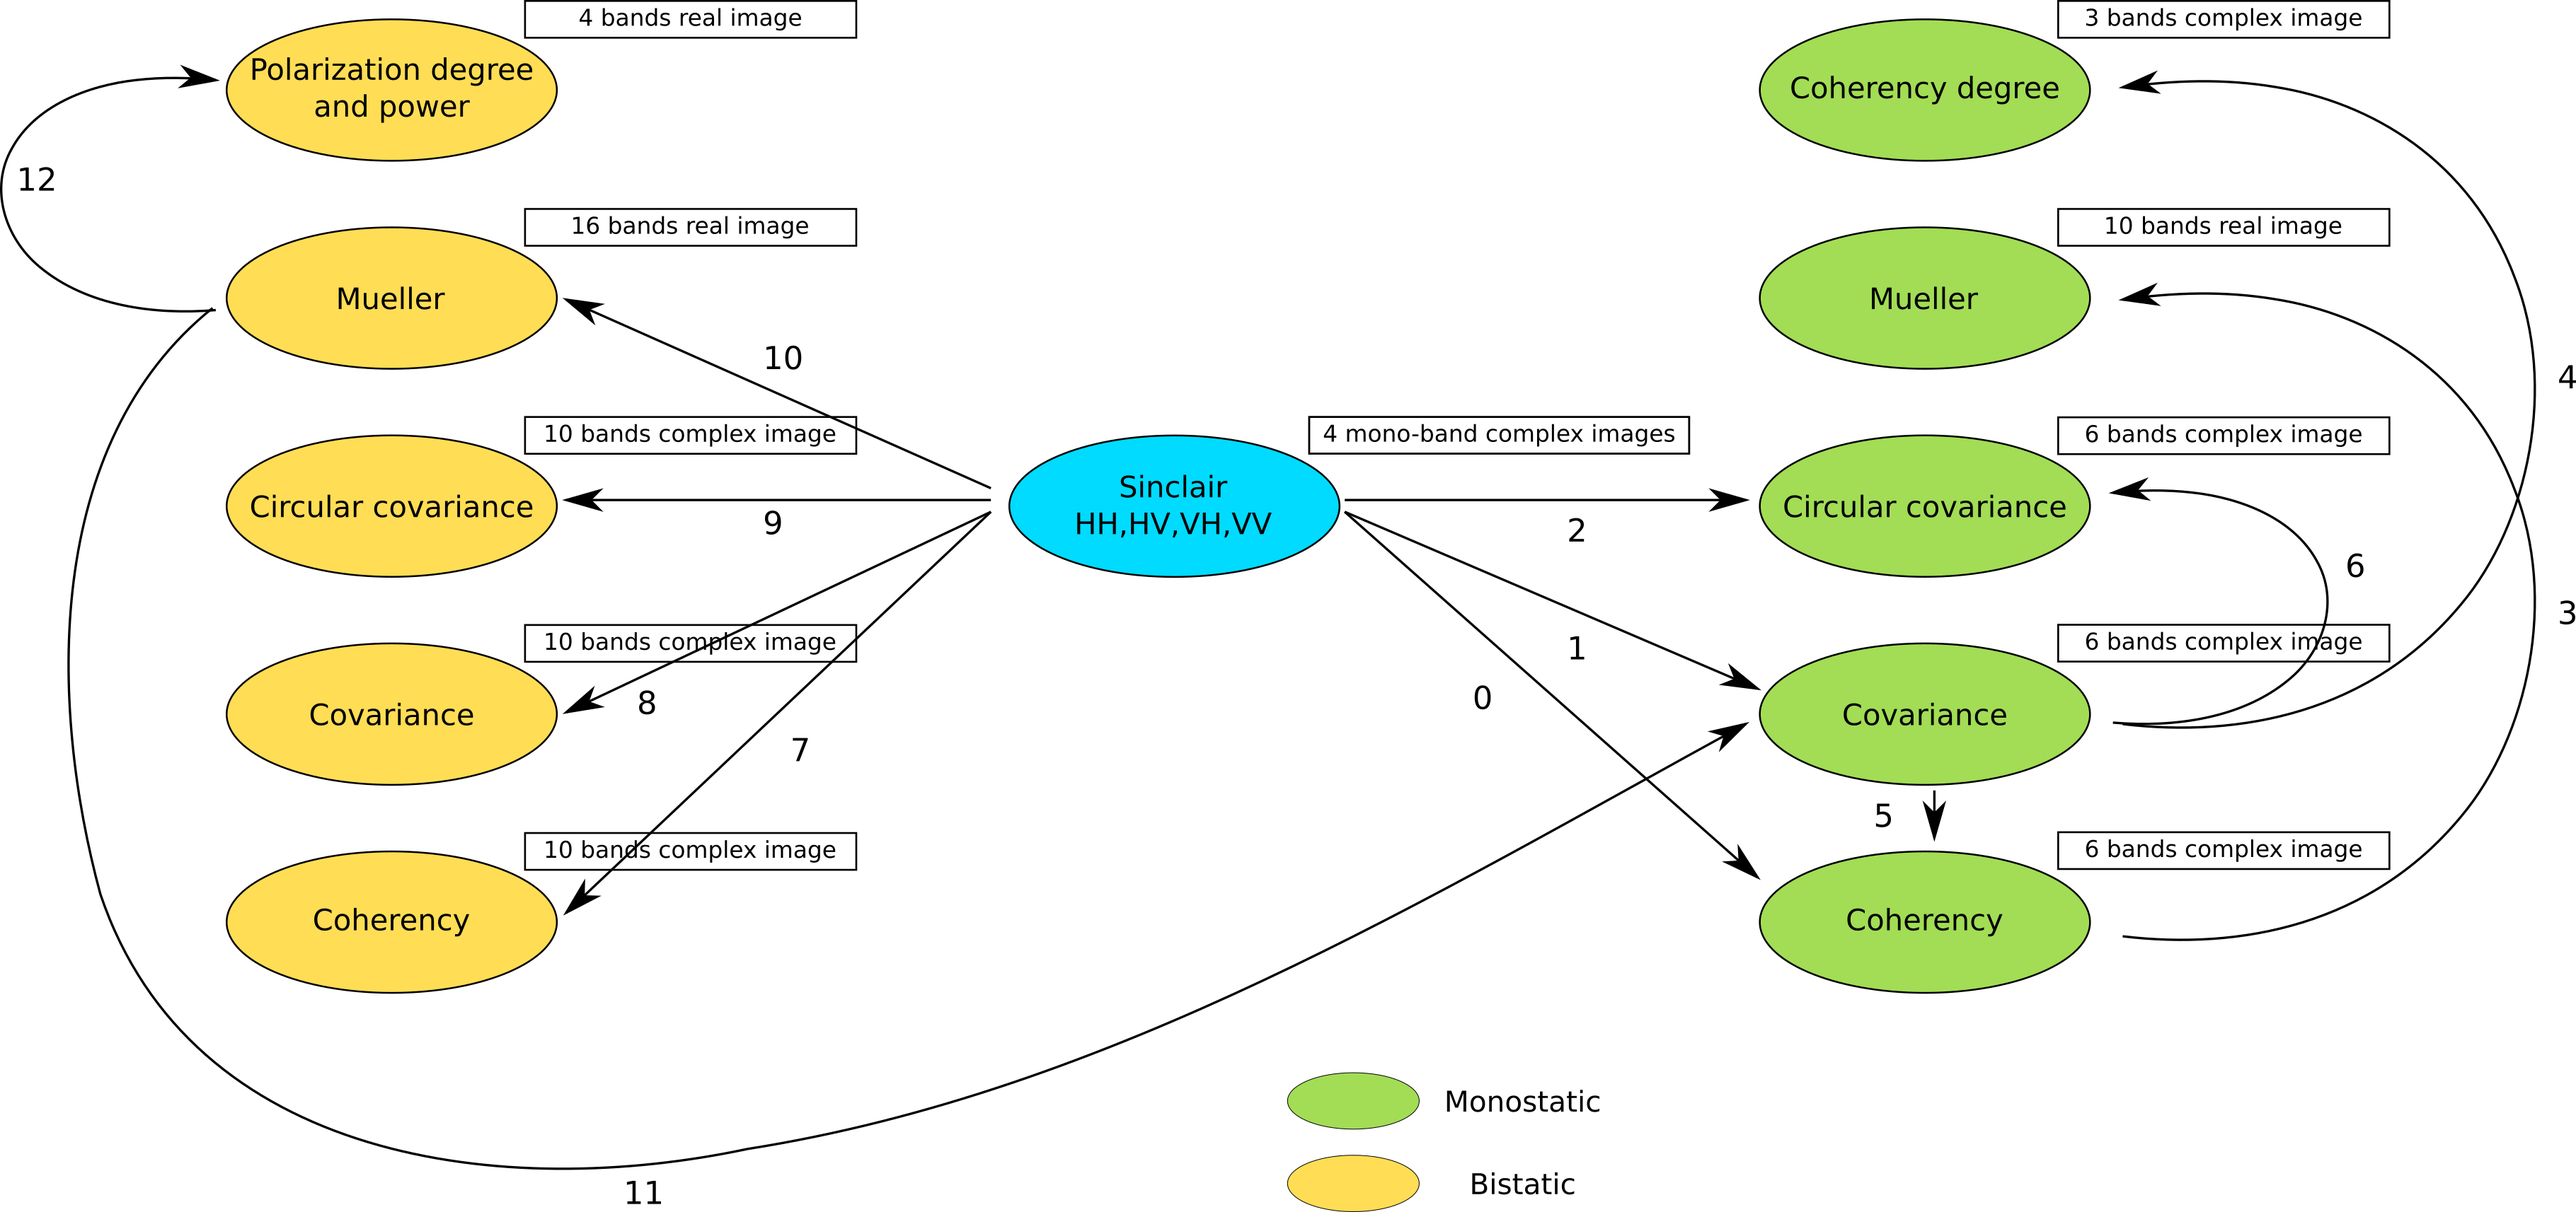
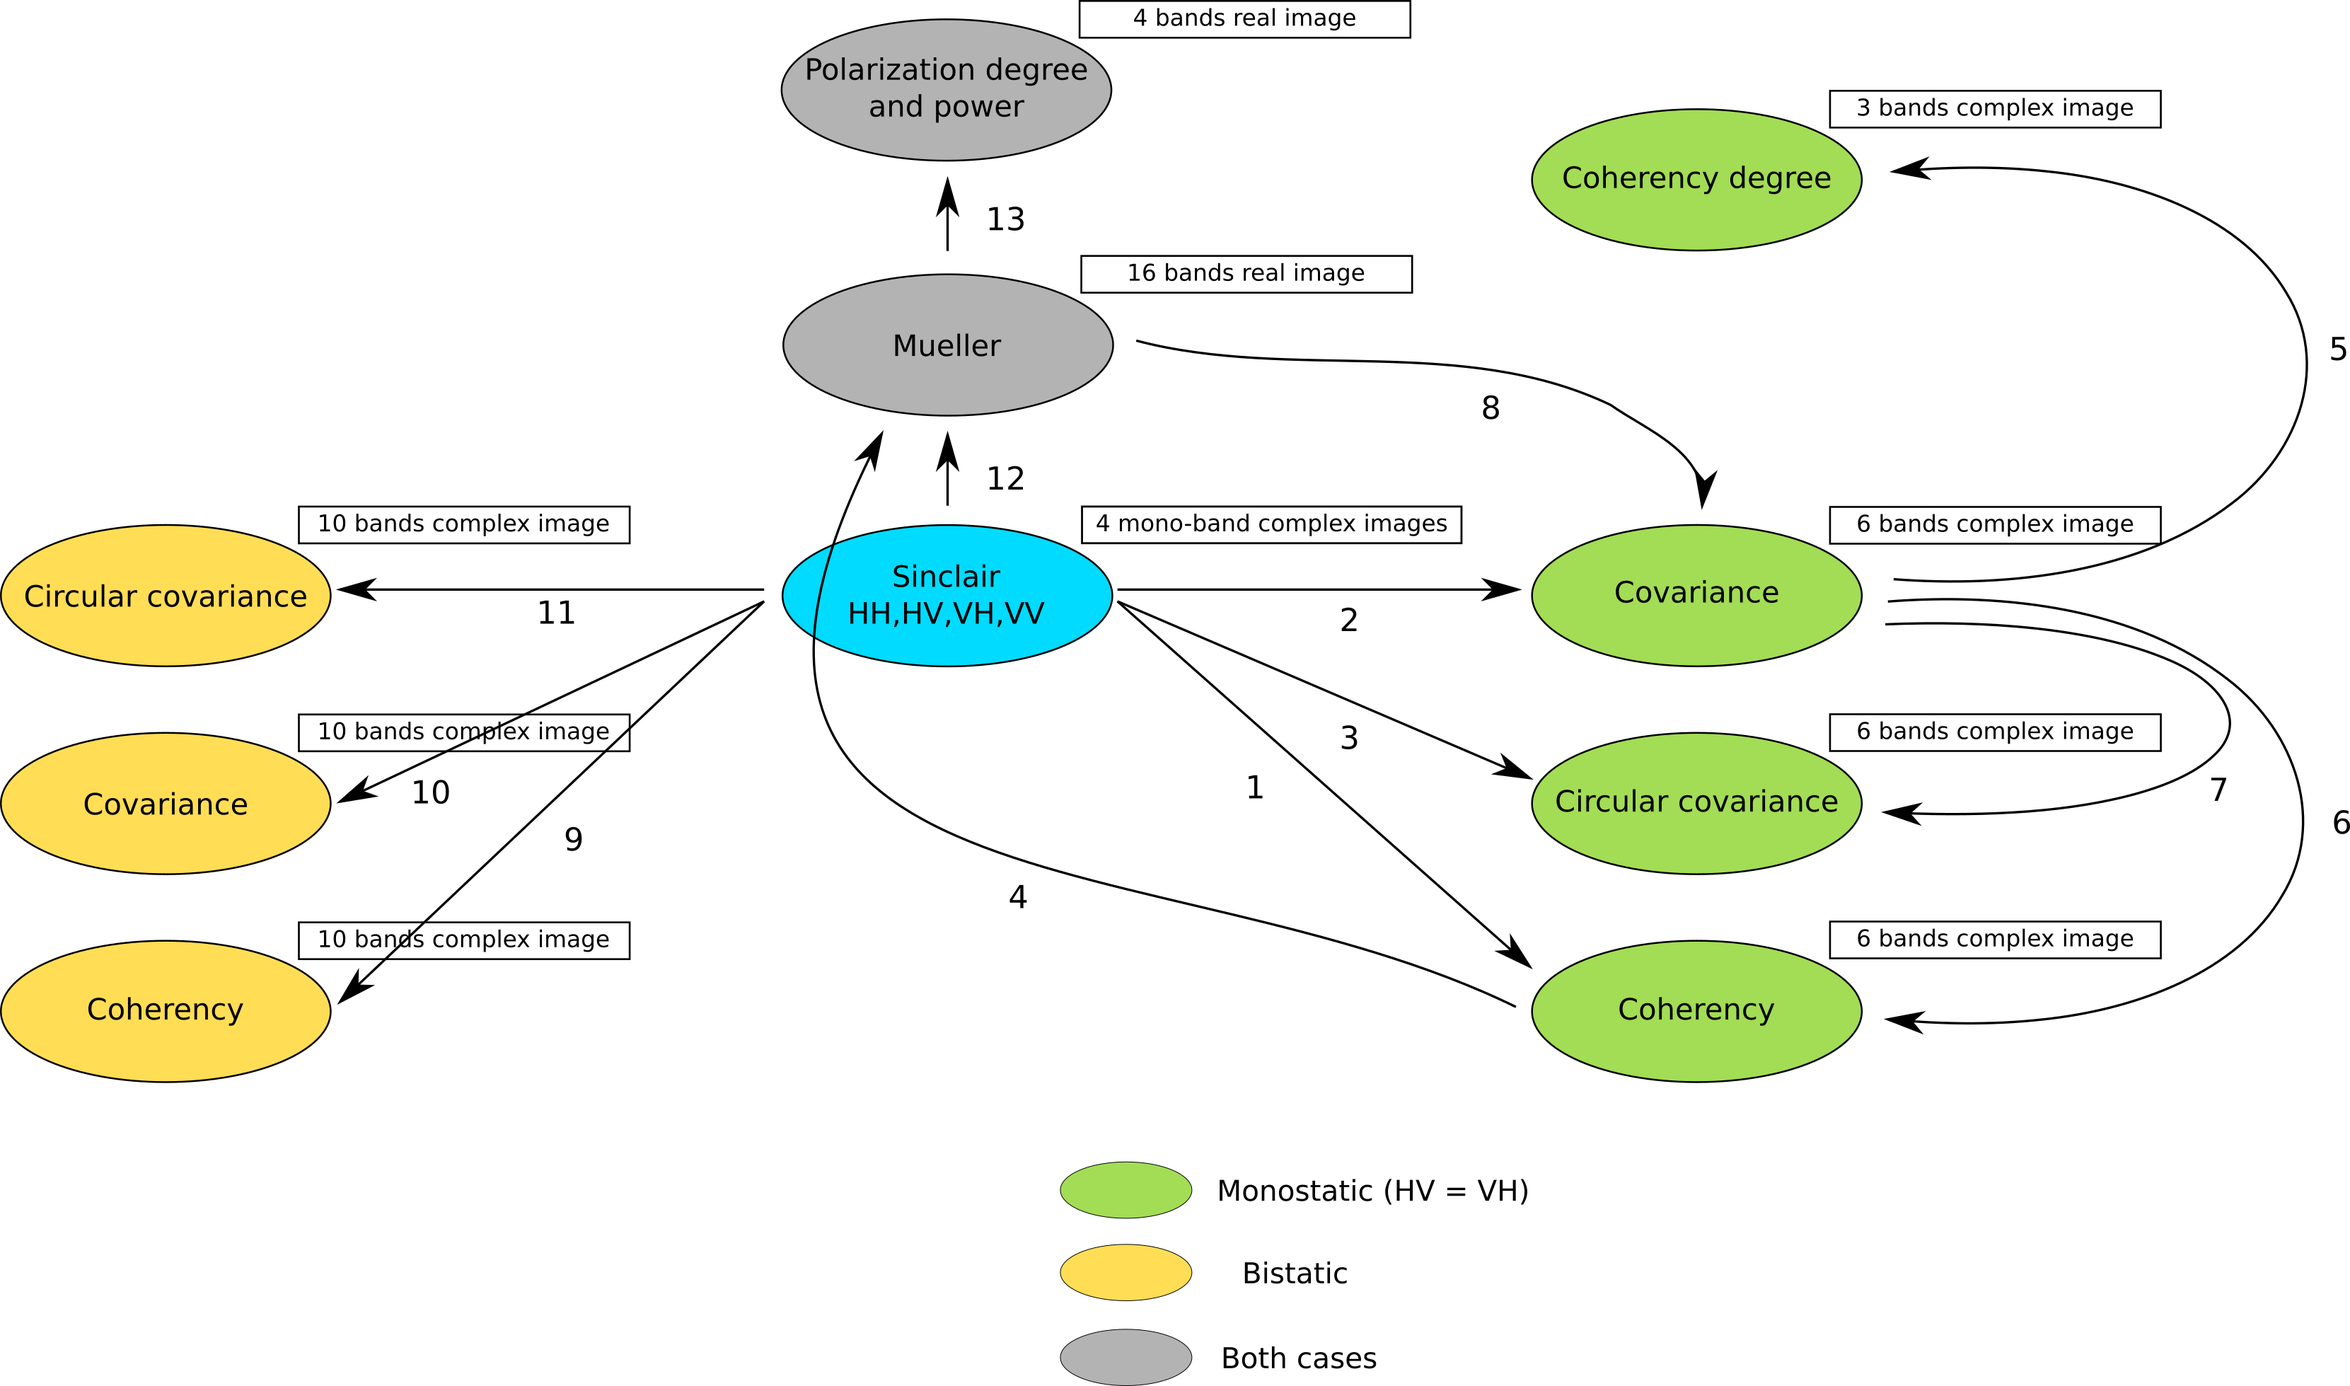
ENH: misc. improvements

diff --git a/CookBook/Latex/polarimetry.tex b/CookBook/Latex/polarimetry.tex
@@ -31,12 +31,12 @@ There are 13 available conversions, each one being related to the following  par
 \item mcovariancetocoherencydegree
 \item mcovariancetocoherency
 \item mlinearcovariancetocircularcovariance
+\item muellertomcovariance
 \item bsinclairtocoherency
 \item bsinclairtocovariance
 \item bsinclairtocircovariance
-\item bsinclairtomueller
-\item bmuellertomcovariance
-\item bmuellertopoldegandpower
+\item sinclairtomueller
+\item muellertopoldegandpower
 \end{enumerate}
 
 For each option parameter, the list below gives the formula used.
@@ -113,28 +113,38 @@ Where Cij are related to the elements of the reciprocal coherence matrix.
  
 \item mcovariancetocoherency (ReciprocalCovarianceToReciprocalCoherencyFunctor)
 \begin{enumerate}
-\item $ 0.5 . ( C33 + C13 + C13^{*} + C11 ) $ 
-\item $ 0.5 . ( -C33 - C13 + C13^{*} + C11 ) $ 
-\item $ 0.5 . ( \sqrt{2}.C12 + \sqrt{2}.C23^{*} ) $ 
-\item $ 0.5 . ( C33 - C13 - C13^{*} + C11 ) $ 
-\item $ 0.5 . ( \sqrt{2}.C12 - \sqrt{2}.C23^{*} ) $ 
-\item $ 0.5 . ( 2 . C22 ) $
+\item $ 0.5 . ( C_{33} + C_{13} + C_{13}^{*} + C_{11} ) $ 
+\item $ 0.5 . ( -C_{33} - C_{13} + C_{13}^{*} + C_{11} ) $ 
+\item $ 0.5 . ( \sqrt{2}.C_{12} + \sqrt{2}.C_{23}^{*} ) $ 
+\item $ 0.5 . ( C_{33} - C_{13} - C_{13}^{*} + C_{11} ) $ 
+\item $ 0.5 . ( \sqrt{2}.C_{12} - \sqrt{2}.C_{23}^{*} ) $ 
+\item $ 0.5 . ( 2 . C_{22} ) $
 \end{enumerate}
 
 Where Cij are related to the elements of the reciprocal linear covariance matrix.
  
 \item mlinearcovariancetocircularcovariance (ReciprocalLinearCovarianceToReciprocalCircularCovarianceFunctor)
 \begin{enumerate}
-\item $ 0.25 . ( C33-i.\sqrt{2}.C23-C13+i.\sqrt{2}.C23^{*}-C13^{*}+2.C22-i.\sqrt{2}.C12+i.\sqrt{2}.C12^{*}+C11 ) $ 
-\item $ 0.25 . ( i.\sqrt{2}.C33+2.C23-i.\sqrt{2}.C13+i.\sqrt{2}.C13^{*}+2.C12^{*}-i.\sqrt{2}.C11 ) $ 
-\item $ 0.25 . ( -C33+i.\sqrt{2}.C23+C13+i.\sqrt{2}.C23^{*}+C13^{*}+2.C22-i.\sqrt{2}.C12-i.\sqrt{2}.C12^{*}-C11 ) $ 
-\item $ 0.25 . ( 2.C33+2.C13+2.C13^{*}+2.C11 ) $ 
-\item $ 0.25 . ( i.\sqrt{2}.C33+i.\sqrt{2}.C13+2.C23^{*}-i.\sqrt{2}.C13^{*}+2.C12-i.\sqrt{2}.C11 ) $ 
-\item $ 0.25 . ( C33+i.\sqrt{2}.C23-C13-i.\sqrt{2}.C23^{*}-C13^{*}+2.C22+i.\sqrt{2}.C12-i.\sqrt{2}.C12^{*}+C11 ) $
+\item $ 0.25 . ( C_{33}-i.\sqrt{2}.C_{23}-C_{13}+i.\sqrt{2}.C_{23}^{*}-C_{13}^{*}+2.C_{22}-i.\sqrt{2}.C_{12}+i.\sqrt{2}.C_{12}^{*}+C_{11} ) $ 
+\item $ 0.25 . ( i.\sqrt{2}.C_{33}+2.C_{23}-i.\sqrt{2}.C_{13}+i.\sqrt{2}.C_{13}^{*}+2.C_{12}^{*}-i.\sqrt{2}.C_{11} ) $ 
+\item $ 0.25 . ( -C_{33}+i.\sqrt{2}.C_{23}+C_{13}+i.\sqrt{2}.C_{23}^{*}+C_{13}^{*}+2.C_{22}-i.\sqrt{2}.C_{12}-i.\sqrt{2}.C_{12}^{*}-C_{11} ) $ 
+\item $ 0.25 . ( 2.C_{33}+2.C_{13}+2.C_{13}^{*}+2.C_{11} ) $ 
+\item $ 0.25 . ( i.\sqrt{2}.C_{33}+i.\sqrt{2}.C_{13}+2.C_{23}^{*}-i.\sqrt{2}.C_{13}^{*}+2.C_{12}-i.\sqrt{2}.C_{11} ) $ 
+\item $ 0.25 . ( C_{33}+i.\sqrt{2}.C_{23}-C_{13}-i.\sqrt{2}.C_{23}^{*}-C_{13}^{*}+2.C_{22}+i.\sqrt{2}.C_{12}-i.\sqrt{2}.C_{12}^{*}+C_{11} ) $
 \end{enumerate}
 
 Where Cij are related to the elements of the reciprocal linear covariance matrix.
- 
+
+\item muellertomcovariance (MuellerToReciprocalCovarianceFunctor)
+\begin{enumerate}
+\item $ 0.5.(M_{11}+M_{22}+2.M_{12}) $ 
+\item $ 0.5.\sqrt{2}.[(M_{13}+M_{23}) + j.(M_{14}+M_{24})] $ 
+\item $ -0.5.(M_{33}+M_{44}) - j.M_{34} $ 
+\item $ M_{11}-M_{22} $ 
+\item $ 0.5.\sqrt{2}.[(M_{13}-M_{23}) + j.(M_{14}-M_{24})] $ 
+\item $ 0.5.(M_{11}+M_{22}-2.M_{12}) $
+\end{enumerate}
+
 \end{enumerate}
 
 \subsubsection{--- Bistatic case ---}
@@ -193,7 +203,11 @@ With:
 \item $ S_{rr} = 0.5(-S_{hh}+j S_{hv}+j S_{vh}+S_{vv}) $ 
 \end{itemize}
  
-\item bsinclairtomueller (SinclairToMueller)
+
+
+\subsubsection{--- Both cases ---}
+
+\item sinclairtomueller (SinclairToMueller)
 \begin{enumerate} 
 \item $ 0.5 Re( T_{xx}.T_{xx}^{*} + T_{xy}.T_{xy}^{*} + T_{yx}.T_{yx}^{*} + T_{yy}.T_{yy}^{*} ) $ 
 \item $ 0.5 Re( T_{xx}.T_{xx}^{*} - T_{xy}.T_{xy}^{*} + T_{yx}.T_{yx}^{*} - T_{yy}.T_{yy}^{*} ) $ 
@@ -220,18 +234,9 @@ With :
 \item $ T_{yx} = S_{vh} $ 
 \item $ T_{yy} = S_{vv} $ 
 \end{itemize}
+
  
-\item bmuellertomcovariance (MuellerToReciprocalCovarianceFunctor)
-\begin{enumerate}
-\item $ 0.5.(M_{11}+M_{22}+2.M_{12}) $ 
-\item $ 0.5.\sqrt{2}.[(M_{13}+M_{23}) + j.(M_{14}+M_{24})] $ 
-\item $ -0.5.(M_{33}+M_{44}) - j.M_{34} $ 
-\item $ M_{11}-M_{22} $ 
-\item $ 0.5.\sqrt{2}.[(M_{13}-M_{23}) + j.(M_{14}-M_{24})] $ 
-\item $ 0.5.(M_{11}+M_{22}-2.M_{12}) $
-\end{enumerate}
- 
-\item bmuellertopoldegandpower (MuellerToPolarisationDegreeAndPowerFunctor)
+\item muellertopoldegandpower (MuellerToPolarisationDegreeAndPowerFunctor)
 \begin{enumerate}
 \item $ P_{min} $ 
 \item $ P_{max} $ 
@@ -239,6 +244,51 @@ With :
 \item $ DegP_{max} $
 \end{enumerate}
 
+\end{enumerate}
+
+Examples :
+
+\begin{enumerate}
+\item \begin{verbatim} otbcli_SARConvert -inhh imageryC_HH.tif -inhv imageryC_HV.tif -invv imageryC_VV.tif
+									  -conv msinclairtocoherency -outc coherency.tif \end{verbatim}
+									  
+\item \begin{verbatim} otbcli_SARConvert -inhh imageryC_HH.tif -inhv imageryC_HV.tif -invv imageryC_VV.tif
+									  -conv msinclairtocovariance -outc covariance.tif \end{verbatim}
+									  
+\item \begin{verbatim} otbcli_SARConvert -inhh imageryC_HH.tif -inhv imageryC_HV.tif -invv imageryC_VV.tif
+									  -conv msinclairtocircovariance -outc circ_covariance.tif \end{verbatim}
+									  
+\item \begin{verbatim} otbcli_SARConvert -inc coherency.tif 
+									  -conv mcoherencytomueller -outf mueller.tif \end{verbatim}
+									  
+\item \begin{verbatim} otbcli_SARConvert -inc covariance.tif 
+									  -conv mcovariancetocoherencydegree -outc coherency_degree.tif \end{verbatim}
+									  
+\item \begin{verbatim} otbcli_SARConvert -inc covariance.tif 
+									  -conv mcovariancetocoherency -outc coherency.tif \end{verbatim}
+									  
+\item \begin{verbatim} otbcli_SARConvert -inc covariance.tif 
+									  -conv mlinearcovariancetocircularcovariance -outc circ_covariance.tif \end{verbatim}	
+									  			
+\item \begin{verbatim} otbcli_SARConvert -inf mueller.tif 
+									  -conv muellertomcovariance -outc covariance.tif \end{verbatim}	
+									  								  
+\item \begin{verbatim} otbcli_SARConvert -inhh imageryC_HH.tif -inhv imageryC_HV.tif -invh imageryC_VH.tif -invv imageryC_VV.tif
+									  -conv bsinclairtocoherency -outc bcoherency.tif \end{verbatim}
+									  
+\item \begin{verbatim} otbcli_SARConvert -inhh imageryC_HH.tif -inhv imageryC_HV.tif -invh imageryC_VH.tif -invv imageryC_VV.tif 
+									  -conv bsinclairtocovariance -outc bcovariance.tif \end{verbatim}
+									  
+\item \begin{verbatim} otbcli_SARConvert -inhh imageryC_HH.tif -inhv imageryC_HV.tif -invh imageryC_VH.tif -invv imageryC_VV.tif
+									  -conv bsinclairtocircovariance -outc circ_bcovariance.tif \end{verbatim}
+									  
+									  
+\item \begin{verbatim} otbcli_SARConvert -inhh imageryC_HH.tif -inhv imageryC_HV.tif -invh imageryC_VH.tif -invv imageryC_VV.tif 
+									  -conv sinclairtomueller -outf mueller.tif \end{verbatim}
+									  
+\item \begin{verbatim} otbcli_SARConvert -inf mueller.tif 
+									  -conv muellertopoldegandpower -outf degreepower.tif \end{verbatim}
+									  
 \end{enumerate}
 
 \subsection{Polarimetric decompositions}\label{ssec:poldecomp}
@@ -271,6 +321,12 @@ With:
 \item $ \text{if} \alpha_{i} > 90, \alpha_{i}=90 $
 \end{itemize}
 
+Example :
+
+\item \begin{verbatim} otbcli_SARDecompositions -inhh imageryC_HH.tif -inhv imageryC_HV.tif -invv imageryC_VV.tif 
+									  -decomp haa -out HaA.tif \end{verbatim}
+
+
 \subsection{Polarimetric synthetis}\label{ssec:polsynth}
 
 This application gives, for each pixel, the power that would have been received by a SAR system with a basis different from the classical (H,V) one (polarimetric synthetis). 
@@ -300,8 +356,7 @@ It is also possible to force the calculation to co-polar or cross-polar modes.
 In the co-polar case, values for psir and khir will be ignored and forced to psii and khii; same as the cross-polar mode, where khir and psir will be forced to psii + 90 degrees and -khii.
 
 Finally, the result of the polarimetric synthetis is expressed in the power domain, through a one-band scalar image. \newline
-Note: this application doesn't take into account the terms which do not depend on the polarization of the antennas. 
-The parameter gain can be used for this purpose.
+
 
  
 The final formula is thus : \begin{verbatim} P = | B^T . [S] . A |^2 \end{verbatim} , where A ans B are two Jones vectors and S is a Sinclair matrix.
